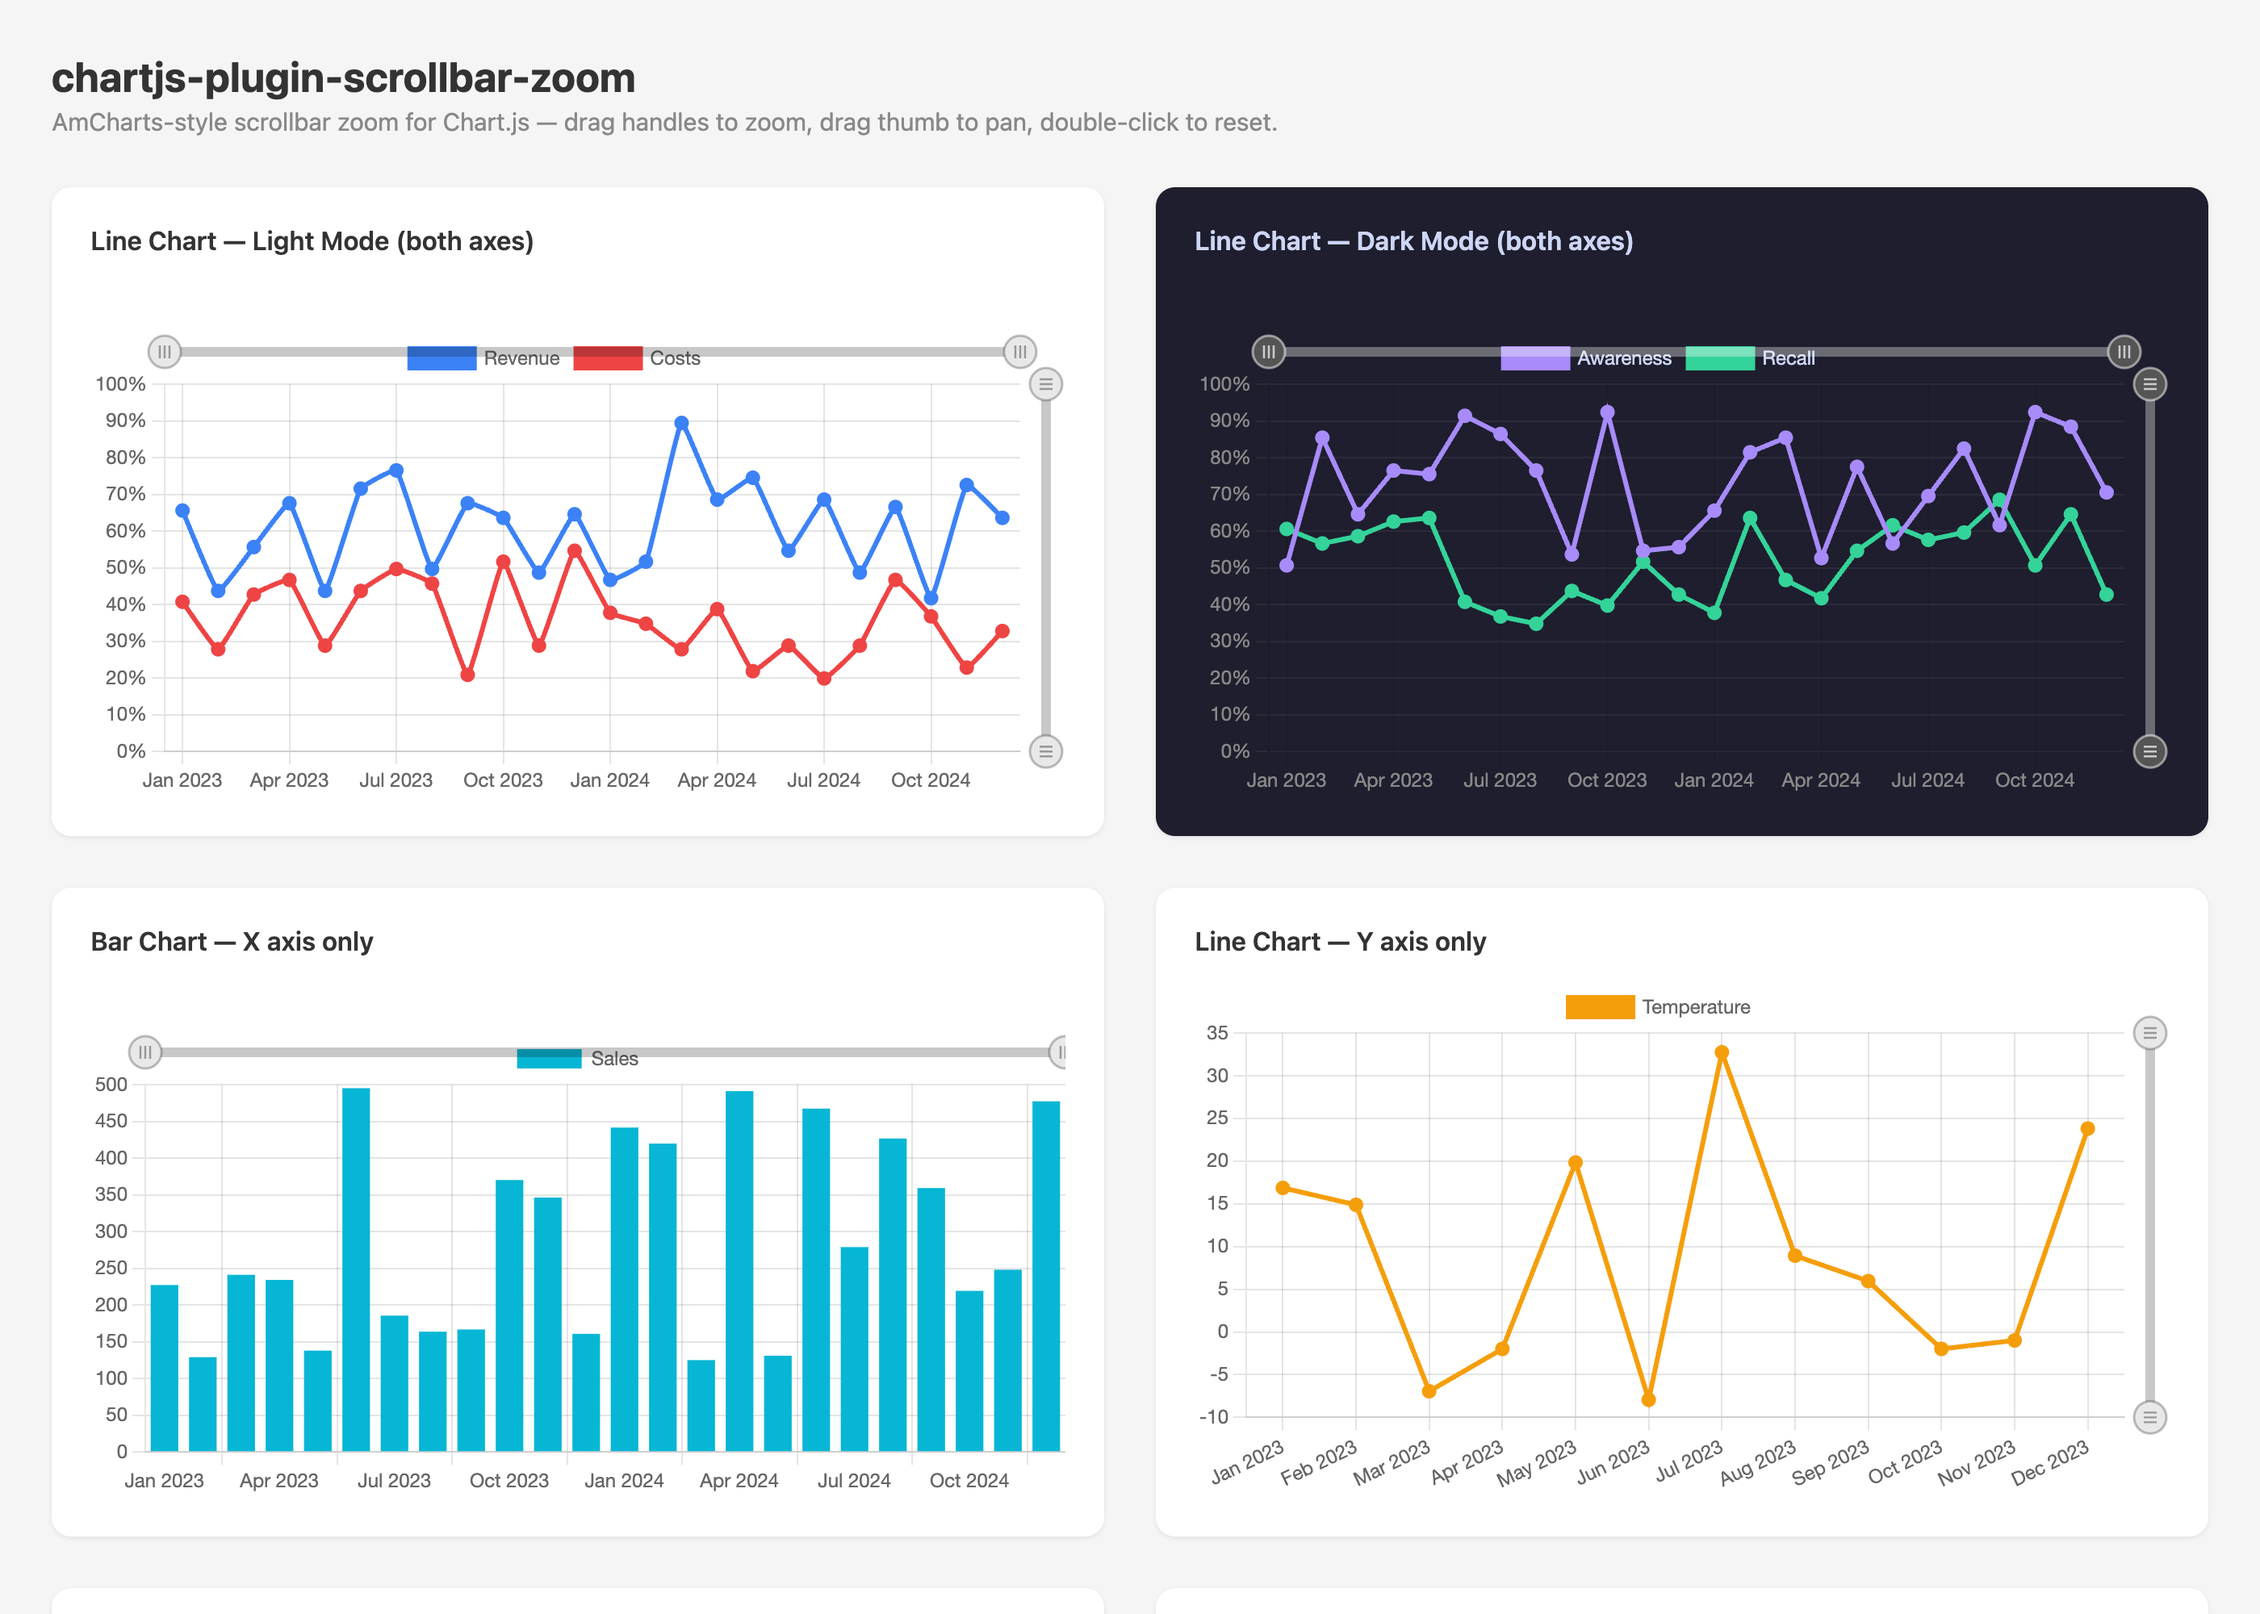
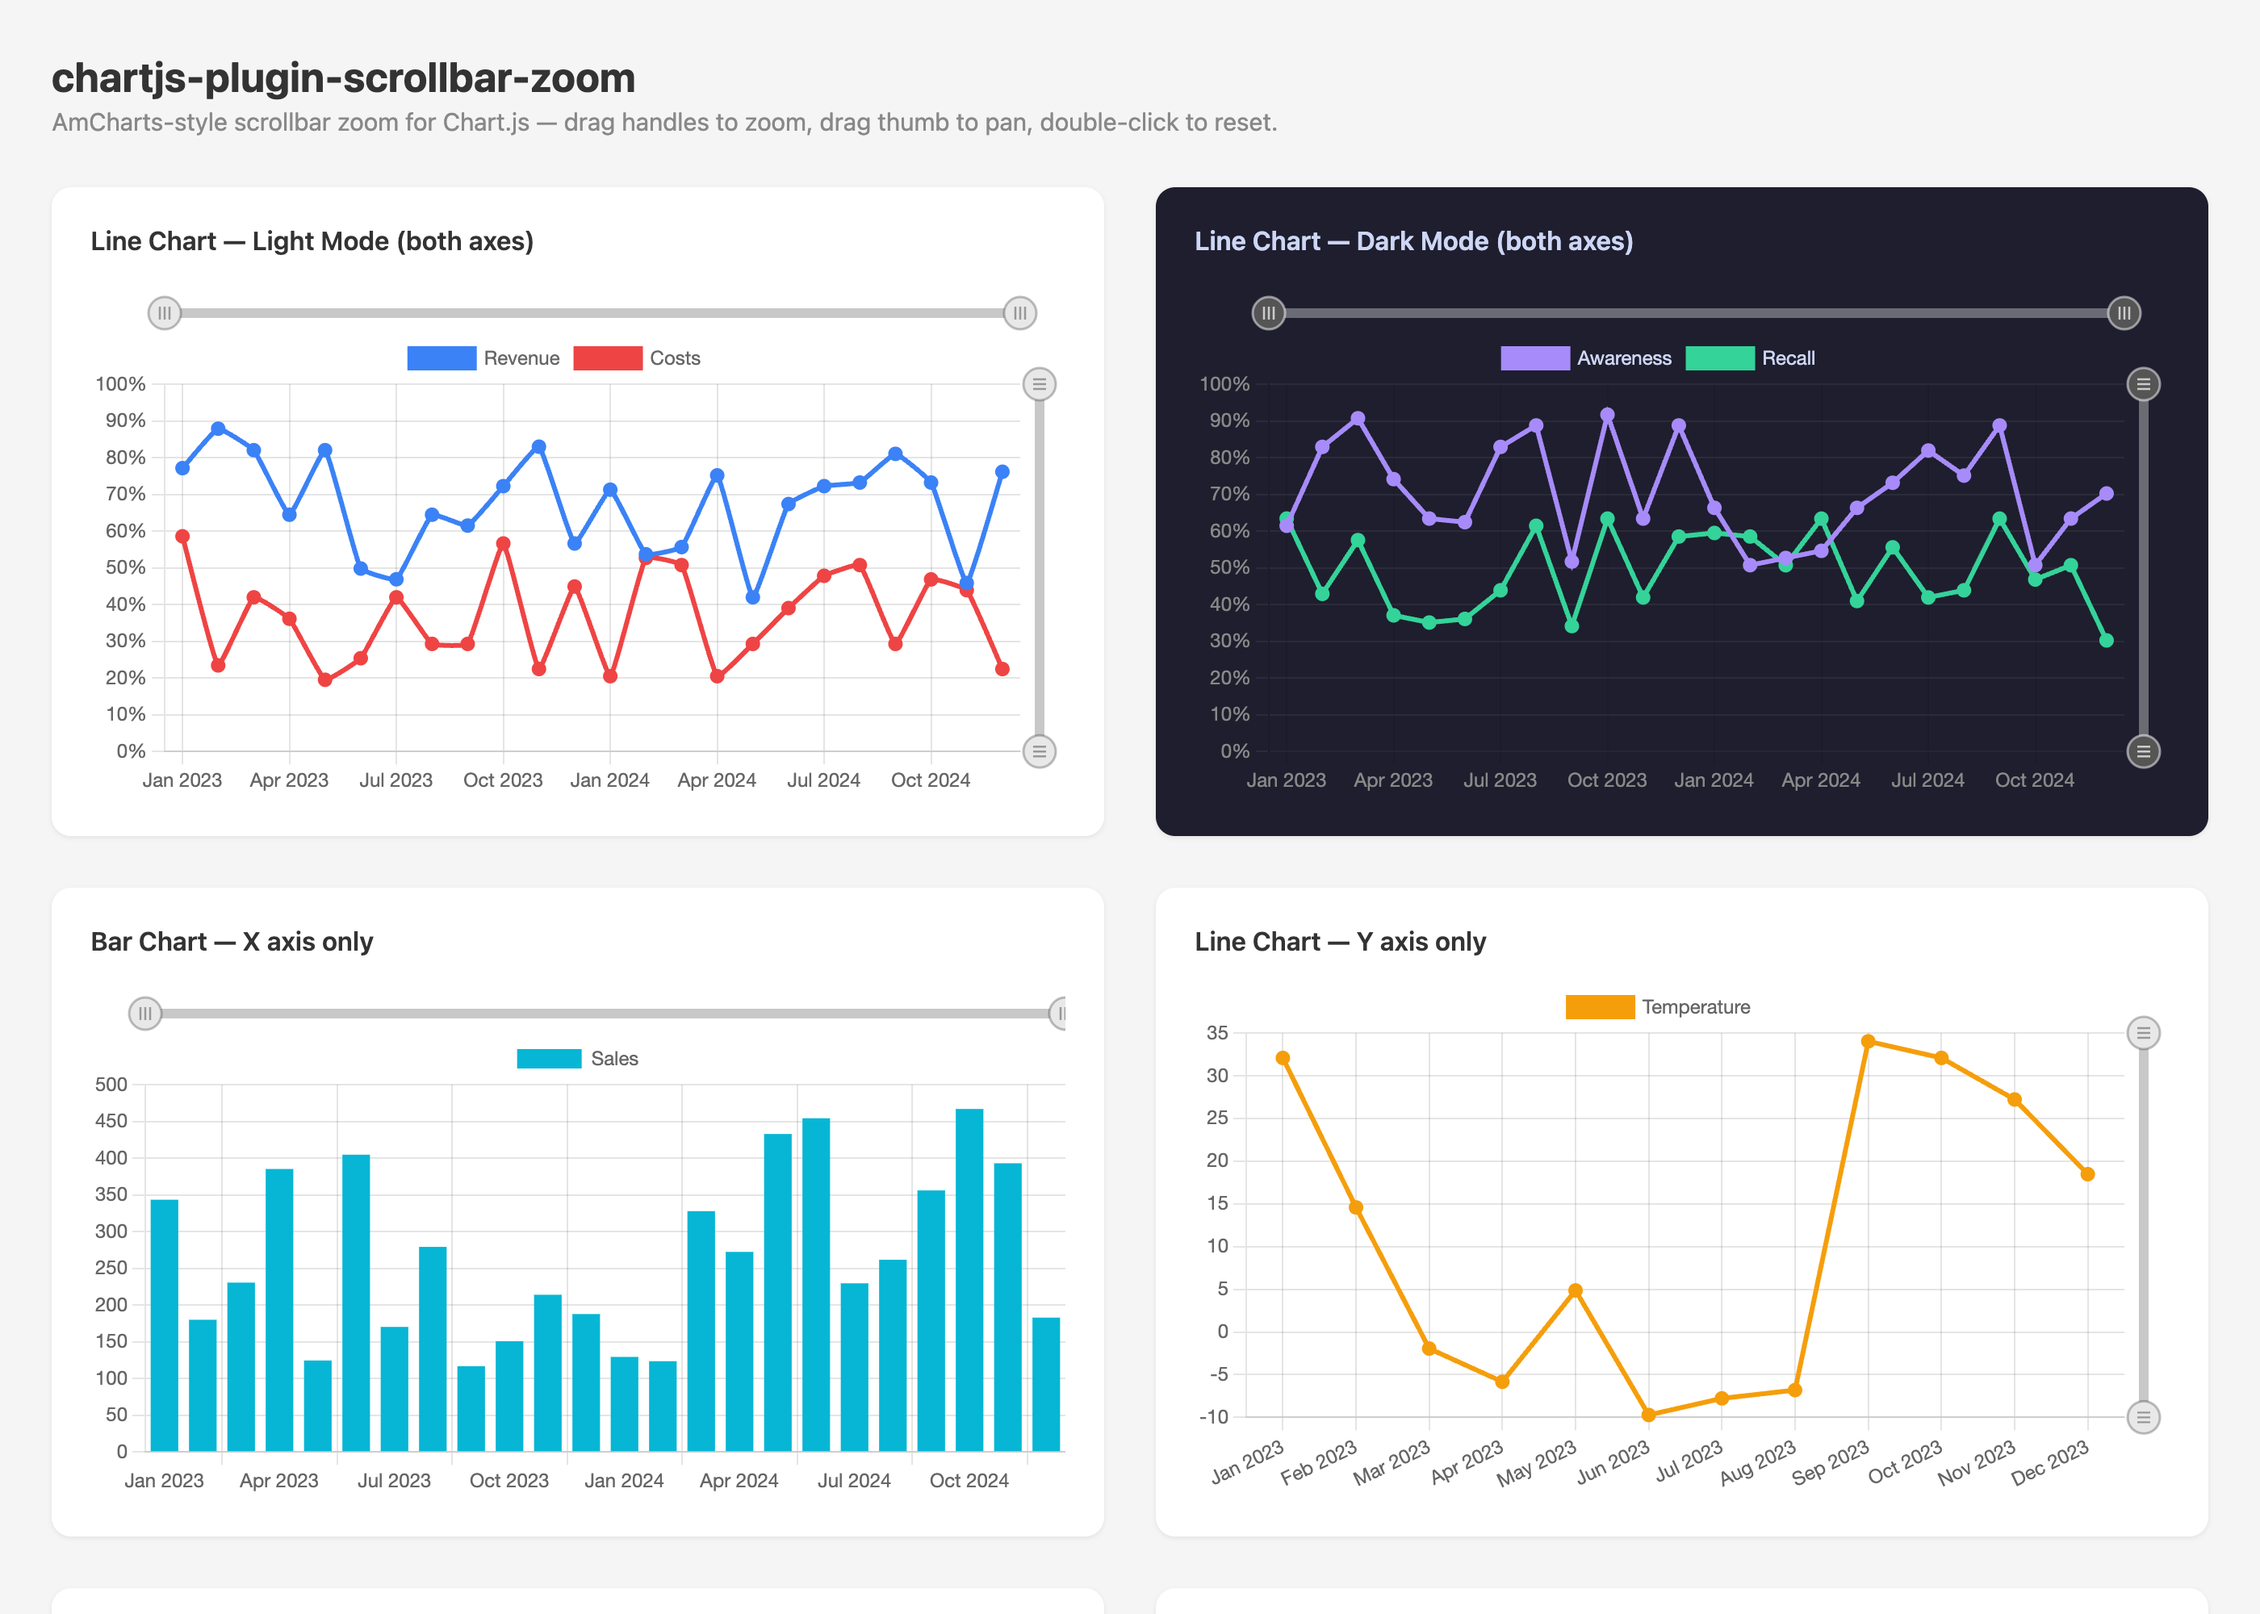
Fix scrollbar overlapping legend and axis labels
Position scrollbars from canvas edges (inside layout.padding zone) instead
of relative to chartArea edges. This prevents overlap with the legend,
axis labels, and other Chart.js layout elements.

diff --git a/src/index.ts b/src/index.ts
@@ -335,7 +335,9 @@ function xTrackRect(chart: Chart, opts: ScrollbarZoomOptions): TrackRect | null 
   const trackH = opts.trackSize ?? 6;
   const offset = opts.xOffset ?? 20;
   const pos = opts.xPosition ?? 'top';
-  const cy = pos === 'top' ? a.top - offset : a.bottom + offset;
+  // Position from canvas edge (inside layout.padding zone) to avoid overlapping
+  // the legend and axis labels which sit between chartArea and canvas edge.
+  const cy = pos === 'top' ? offset : chart.height - offset;
   return { x: a.left, y: cy - trackH / 2, w: a.right - a.left, h: trackH, center: cy };
 }
 
@@ -345,7 +347,9 @@ function yTrackRect(chart: Chart, opts: ScrollbarZoomOptions): TrackRect | null 
   const trackW = opts.trackSize ?? 6;
   const offset = opts.yOffset ?? 16;
   const pos = opts.yPosition ?? 'right';
-  const cx = pos === 'right' ? a.right + offset : a.left - offset;
+  // Position from canvas edge (inside layout.padding zone) to avoid overlapping
+  // the legend and axis labels which sit between chartArea and canvas edge.
+  const cx = pos === 'right' ? chart.width - offset : offset;
   return { x: cx - trackW / 2, y: a.top, w: trackW, h: a.bottom - a.top, center: cx };
 }
 

diff --git a/dist/index.global.js b/dist/index.global.js
@@ -218,7 +218,7 @@ var ScrollbarZoom = (() => {
     const trackH = opts.trackSize ?? 6;
     const offset = opts.xOffset ?? 20;
     const pos = opts.xPosition ?? "top";
-    const cy = pos === "top" ? a.top - offset : a.bottom + offset;
+    const cy = pos === "top" ? offset : chart.height - offset;
     return { x: a.left, y: cy - trackH / 2, w: a.right - a.left, h: trackH, center: cy };
   }
   function yTrackRect(chart, opts) {
@@ -227,7 +227,7 @@ var ScrollbarZoom = (() => {
     const trackW = opts.trackSize ?? 6;
     const offset = opts.yOffset ?? 16;
     const pos = opts.yPosition ?? "right";
-    const cx = pos === "right" ? a.right + offset : a.left - offset;
+    const cx = pos === "right" ? chart.width - offset : offset;
     return { x: cx - trackW / 2, y: a.top, w: trackW, h: a.bottom - a.top, center: cx };
   }
   function hitTest(chart, state, opts, mx, my) {

diff --git a/dist/index.js b/dist/index.js
@@ -218,7 +218,7 @@ function xTrackRect(chart, opts) {
   const trackH = opts.trackSize ?? 6;
   const offset = opts.xOffset ?? 20;
   const pos = opts.xPosition ?? "top";
-  const cy = pos === "top" ? a.top - offset : a.bottom + offset;
+  const cy = pos === "top" ? offset : chart.height - offset;
   return { x: a.left, y: cy - trackH / 2, w: a.right - a.left, h: trackH, center: cy };
 }
 function yTrackRect(chart, opts) {
@@ -227,7 +227,7 @@ function yTrackRect(chart, opts) {
   const trackW = opts.trackSize ?? 6;
   const offset = opts.yOffset ?? 16;
   const pos = opts.yPosition ?? "right";
-  const cx = pos === "right" ? a.right + offset : a.left - offset;
+  const cx = pos === "right" ? chart.width - offset : offset;
   return { x: cx - trackW / 2, y: a.top, w: trackW, h: a.bottom - a.top, center: cx };
 }
 function hitTest(chart, state, opts, mx, my) {
